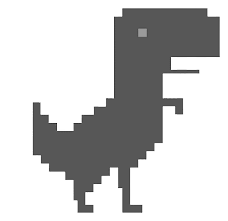
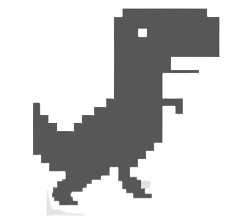
Game Over

diff --git a/game.js b/game.js
@@ -10,10 +10,20 @@ $('.btnStart').click(() => {
 });
 
 const startGame = () => {
+    runGame = 1;
     $(".viewAppStart").addClass('hidden');
     $(".cactoElement-game-large").addClass('animationMoveCacto');
     $(".cactoElement-game-min").addClass('animationMoveCacto');
     loopPoints();
+    let tokenRunnerDino = 0;
+    setInterval(() => {
+        startRunnerDino(tokenRunnerDino);
+        if (tokenRunnerDino == 0) {
+            tokenRunnerDino = 1;
+        } else {
+            tokenRunnerDino = 0;
+        };
+    }, 150);
 };
 
 
@@ -21,12 +31,15 @@ const startGame = () => {
 
 document.addEventListener('keypress',(key)=>{if(key.code==='Space')jumpPlayer()});
 
+var alreadyJump = false;
+
 const jumpPlayer = () => {
     if ($('#player').hasClass("jumpPlayer") != true) {
         $("#player").addClass("jumpPlayer");
-    
+        alreadyJump = true;
         setTimeout(() => {
             $("#player").removeClass("jumpPlayer");
+            alreadyJump = false;
         }, 700);
     };
 };
@@ -52,5 +65,53 @@ const loopPoints = () => {
         if (points < 100000 && points > 10000) {
             $('.point').text(`${points}`);
         };
-    }, .1);
+    }, 100);
+};
+
+// ------------ Animation Dino ------------
+const startRunnerDino = (tokenRunnerDino) => {
+    if (tokenRunnerDino == 0) {
+        $("#player").attr("src","./gameComponents/player2.png");
+    } else {
+        $("#player").attr("src","./gameComponents/player.png");
+    };
+};
+
+// ----------- Colisão com os cactos -----------
+
+// x = 80 -> Player Position
+
+
+setInterval(() => {
+    var cordsCactoLarge =  updatePositionCacto();
+    var cordsCactoMin = updatePositionCacto2();
+    var cordsPlayer =  updatePositionPlayer();
+    if (cordsCactoLarge.x < 150 && cordsCactoLarge.x > 0 && !alreadyJump) {
+        alert("Você perdeu!!");
+        resetGame(); 
+    };
+    if (cordsCactoMin.x < 150 && cordsCactoMin.x > 0 && !alreadyJump) {
+        alert("Você perdeu!!");
+        resetGame(); 
+    };
+}, 100);
+
+function updatePositionCacto() {
+    let cactoLarge = document.querySelector('.cactoElement-game-large');
+    let cordsRes = cactoLarge.getBoundingClientRect();
+    return cordsRes;
+};
+function updatePositionCacto2() {
+    let cactoLarge = document.querySelector('.cactoElement-game-min');
+    let cordsRes = cactoLarge.getBoundingClientRect();
+    return cordsRes;
+};
+function updatePositionPlayer() {
+    let player = document.querySelector('#player');
+    let cordsRes = player.getBoundingClientRect();
+    return cordsRes;
+};
+
+function resetGame() {
+    window.location.reload();
 };
